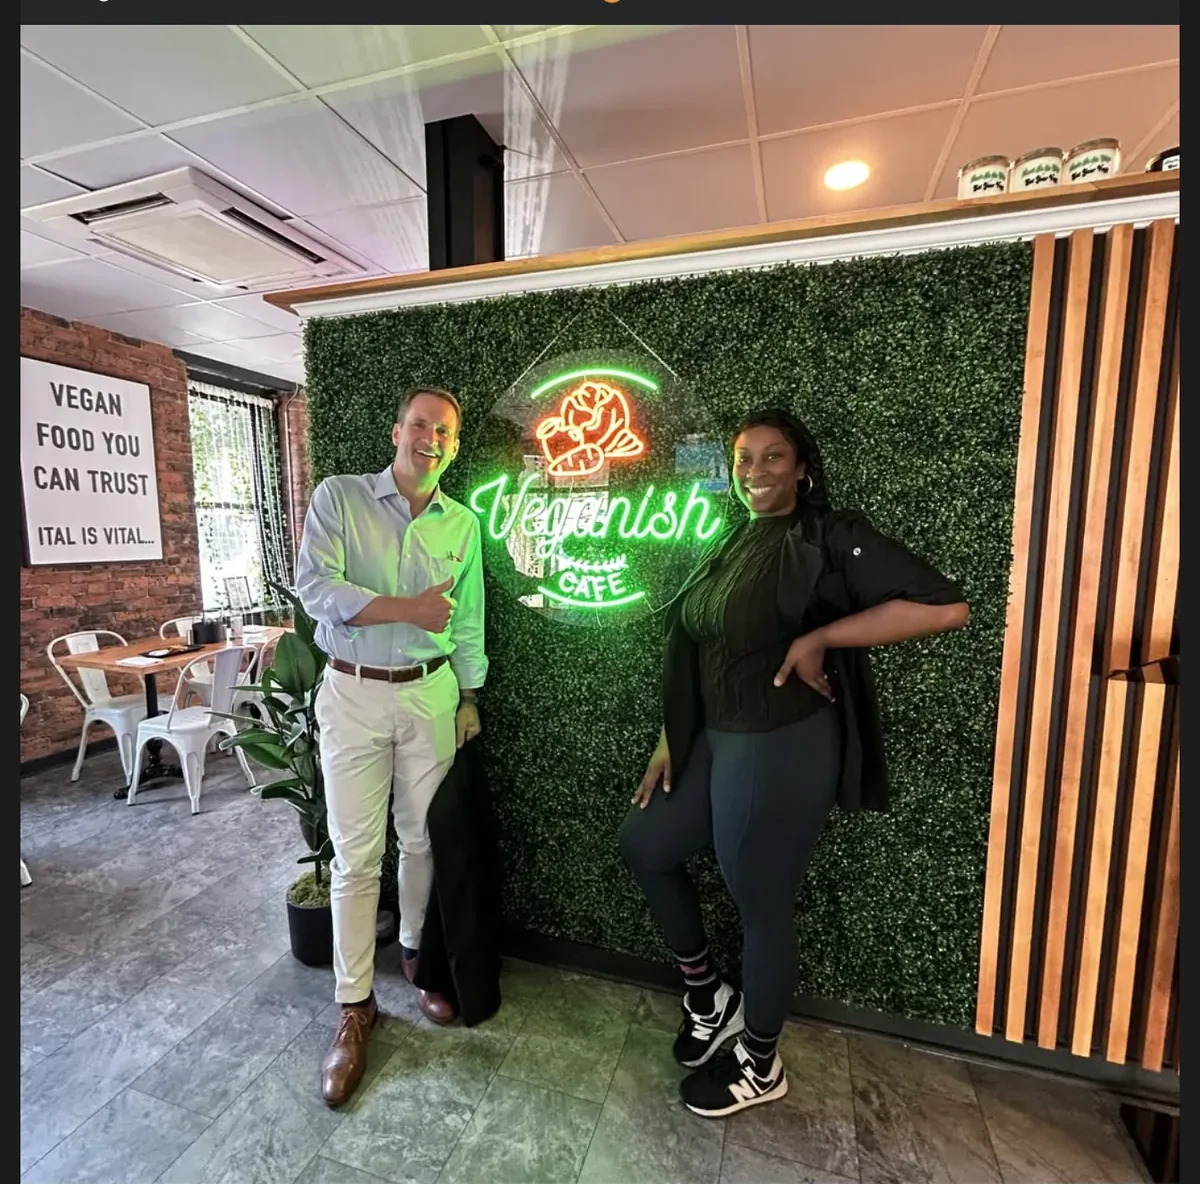
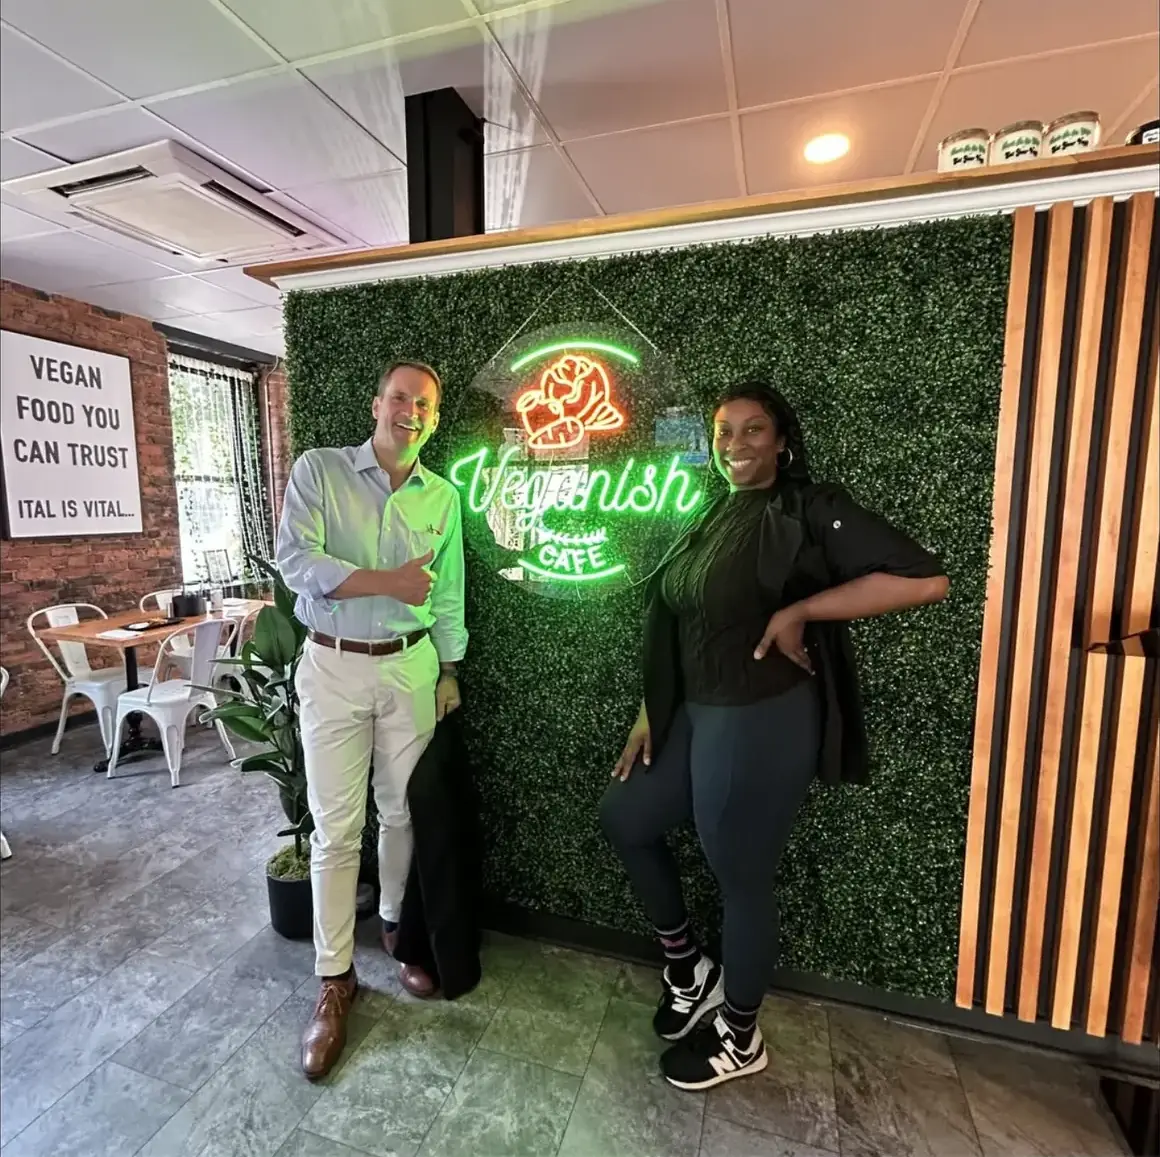
Strip screenshot chrome, add Instagram photos, fix nav and CTA contrast
Images
- food-3/4/5 and owners were full browser screenshots of Facebook, including a
  personal bookmarks bar, published on the live site. Cropped to the photo.
  owners also lost the video player's mute badge; its lightbox buttons sit top
  left, so they come off the side rather than the top, which was eating the
  subjects' headroom.
- congressman-himes lost a residual strip of UI and its letterbox.
- food-1/food-2 converted to WebP. og-image.jpg stays JPEG: social scrapers
  don't reliably render WebP and that image exists only for link previews.
- 8 photos from the cafe's own Instagram, via the public embed endpoint, which
  serves the uploaded original rather than the 640px grid thumbnail - several
  were 3-4K. Skipped the 720px reel covers with burnt-in text.

Pipeline
- images.mjs takes repeated --manifest and a per-manifest src root, because
  photos.js is rewritten wholesale and every source has to be on one run.
- Optional `aspect` re-frames a photo for the grid; the one reel cover arrives
  9:16 and needs 3:4.

Hero
- Two slides still pointed at the pre-WebP .jpg paths, so Vite couldn't
  fingerprint them and they rendered black. Slides are background-position:
  center, so the portrait owners frame also lost its subject - swapped for a
  sharp landscape shot and noted the constraint.

Nav
- The nav needs 1080px for one line but collapsed at the 1024 layout
  breakpoint, leaving 1025-1100px showing a full nav that didn't fit: the
[…]

diff --git a/index.html b/index.html
@@ -135,10 +135,12 @@
     <main id="main-content">
     <section id="home" class="hero" aria-label="Welcome">
       <div class="hero-slides" id="heroSlides" aria-hidden="true">
-        <div class="hero-slide active" style="background-image:url('assets/images/food-1.jpg')"></div>
+        <!-- Slides are background-position:center, so portrait crops lose their subject.
+             Keep these square or landscape. -->
+        <div class="hero-slide active" style="background-image:url('assets/images/food-1.webp')"></div>
         <div class="hero-slide" style="background-image:url('assets/images/governor-visit.webp')"></div>
-        <div class="hero-slide" style="background-image:url('assets/images/owners.webp')"></div>
-        <div class="hero-slide" style="background-image:url('assets/images/food-2.jpg')"></div>
+        <div class="hero-slide" style="background-image:url('assets/images/catering/festival-catering-setup.webp')"></div>
+        <div class="hero-slide" style="background-image:url('assets/images/food-2.webp')"></div>
       </div>
       <div class="hero-overlay"></div>
       <div class="hero-content">
@@ -153,8 +155,8 @@
           soul food reimagined, 100% plant-based.
         </p>
         <div class="hero-actions">
-          <a href="#menu" class="btn btn-primary">Explore the Menu</a>
-          <a href="#order" class="btn btn-outline">Order Now</a>
+          <a href="#menu" class="btn btn-outline">Explore the Menu</a>
+          <a href="#order" class="btn btn-accent">Order Now</a>
         </div>
         <p class="hero-badge">
           <span class="badge-icon" aria-hidden="true">🏆</span>
@@ -205,7 +207,7 @@
               </figcaption>
             </figure>
             <figure class="about-img-frame about-img-frame--secondary">
-              <img src="assets/images/congressman-himes.webp" alt="Congressman Jim Himes with Chef Hannah at Veganish Cafe" class="about-img" width="1200" height="1184" loading="lazy" decoding="async" />
+              <img src="assets/images/congressman-himes.webp" alt="Congressman Jim Himes with Chef Hannah at Veganish Cafe" class="about-img" width="1160" height="1157" loading="lazy" decoding="async" />
               <figcaption class="about-img-badge">
                 <span>Community</span>
                 <strong>Congressman Jim Himes</strong>
@@ -437,7 +439,7 @@
                  Where to find the link: Clover Dashboard → Account & Setup → Online Ordering,
                  then Online Ordering Providers → Clover → "More Options" (URL + QR code).
                  Keep this FIRST and PRIMARY — it's commission-free, unlike Grubhub/Uber Eats.
-            <a href="CLOVER_ORDERING_URL" target="_blank" rel="noopener noreferrer" class="btn btn-primary btn-lg">Order Pickup — Powered by Clover</a>
+            <a href="CLOVER_ORDERING_URL" target="_blank" rel="noopener noreferrer" class="btn btn-accent btn-lg">Order Pickup — Powered by Clover</a>
             -->
             <a href="tel:+12032758924" class="btn btn-primary btn-lg">
               <span aria-hidden="true">📞</span> Call (203) 275-8924

diff --git a/src/data/photos.js b/src/data/photos.js
@@ -198,6 +198,54 @@ export const gallery = [
     "caption": "Kale & Avocado Bowl",
     "width": 900,
     "height": 1200
+  },
+  {
+    "src": "assets/images/gallery/oyster-mushroom-salad.webp",
+    "slug": "oyster-mushroom-salad",
+    "alt": "Bowl of fried oyster mushrooms over kale and tomato with avocado and blue cheese on the side",
+    "caption": "Fried Oyster Mushroom Salad",
+    "width": 1200,
+    "height": 1200
+  },
+  {
+    "src": "assets/images/gallery/smash-burger-closeup.webp",
+    "slug": "smash-burger-closeup",
+    "alt": "Close-up of a double smash burger with melted cheese and sauce beside crinkle-cut fries",
+    "caption": "Double Smash Burger",
+    "width": 1200,
+    "height": 1200
+  },
+  {
+    "src": "assets/images/gallery/buffalo-cauliflower-wings.webp",
+    "slug": "buffalo-cauliflower-wings",
+    "alt": "Buffalo cauliflower wings in bright red sauce topped with diced cucumber",
+    "caption": "Buffalo Cauliflower Wings",
+    "width": 900,
+    "height": 1200
+  },
+  {
+    "src": "assets/images/gallery/vegan-tacos.webp",
+    "slug": "vegan-tacos",
+    "alt": "Two trays of vegan tacos with crispy fillings, lettuce and avocado on printed deli paper",
+    "caption": "Taco Tuesday",
+    "width": 1080,
+    "height": 1080
+  },
+  {
+    "src": "assets/images/gallery/sweet-chili-cauliflower-platter.webp",
+    "slug": "sweet-chili-cauliflower-platter",
+    "alt": "Plate of sweet chili cauliflower with spring rolls and chickpeas on a patio table",
+    "caption": "Sweet Chili Cauliflower",
+    "width": 1080,
+    "height": 1080
+  },
+  {
+    "src": "assets/images/gallery/soul-food-tray.webp",
+    "slug": "soul-food-tray",
+    "alt": "Takeout tray of rice and peas, cabbage, candied yams, mac and cheese and barbecue protein",
+    "caption": "Vegan Soul Food Tray",
+    "width": 900,
+    "height": 1200
   }
 ];
 
@@ -215,6 +263,14 @@ export const brand = [
     "slug": "chickpea-salad",
     "alt": "Chickpea salad plated in the dining room beneath the neon sign",
     "caption": "Chickpea Salad",
+    "width": 900,
+    "height": 1200
+  },
+  {
+    "src": "assets/images/brand/storefront-burger-neon.webp",
+    "slug": "storefront-burger-neon",
+    "alt": "Smash burger and seasoned fries on a plate in front of the Veganish storefront window and neon sign",
+    "caption": "Smash Burger at the Window",
     "width": 900,
     "height": 1200
   }
@@ -307,6 +363,14 @@ export const catering = [
     "alt": "Full catering pan of baked vegan macaroni and cheese",
     "caption": "Mac & Cheese",
     "width": 900,
+    "height": 1200
+  },
+  {
+    "src": "assets/images/catering/festival-catering-setup.webp",
+    "slug": "festival-catering-setup",
+    "alt": "Veganish staff in branded shirts serving from chafing trays under a tent at an outdoor festival",
+    "caption": "Catering on Location",
+    "width": 1200,
     "height": 1200
   }
 ];

diff --git a/src/styles/responsive.css b/src/styles/responsive.css
@@ -1,9 +1,6 @@
 /* ══════════════════════════════════════════
    RESPONSIVE
 ══════════════════════════════════════════ */
-/* The nav carries nine items since Catering and Meal Prep were added; four of
-   them wrapped at 813px, so the hamburger takes over here rather than at 768px.
-   Mirrored by BREAKPOINTS.nav in lib/breakpoints.js. */
 @media (max-width: 1024px) {
   .about-grid   { grid-template-columns: 1fr; gap: 48px; }
   .contact-grid { grid-template-columns: 1fr; gap: 48px; }
@@ -12,7 +9,14 @@
   .highlights-grid { grid-template-columns: 1fr 1fr; }
   .review-card  { flex: 0 0 calc(50% - 12px); }
   .event-card   { padding: 40px; gap: 40px; }
+}
 
+/* The nav needs 1080px to hold one line: 151px logo + 761px of links + 8px gaps +
+   80px padding. Collapsing at the 1024 layout breakpoint left 1025-1080px with a
+   full nav that didn't fit, so the wordmark and four labels each broke in two.
+   The hamburger takes over above the layout breakpoint for that reason.
+   Mirrored by BREAKPOINTS.nav in lib/breakpoints.js. */
+@media (max-width: 1100px) {
   /* With the links collapsed there's nothing to balance the logo against, so the
      lockup centres and the hamburger pins to the right edge. */
   .navbar { padding: 16px 24px; justify-content: center; }
@@ -23,8 +27,6 @@
     top: 50%;
     transform: translateY(-50%);
   }
-  /* Keep the wordmark on one line - "Vegan-" / "ish" was breaking in two. */
-  .nav-logo { white-space: nowrap; }
 
   .nav-toggle { display: flex; }
 

diff --git a/src/data/gallery.js b/src/data/gallery.js
@@ -2,48 +2,48 @@
 
 export const legacyGallery = [
   {
-    "src": "assets/images/food-1.jpg",
+    "src": "assets/images/food-1.webp",
     "alt": "Jalapeño smash burger with fries",
     "caption": "Jalapeño Smash Burger",
-    "width": 1440,
-    "height": 1440,
+    "width": 1200,
+    "height": 1200,
     "size": "tall"
   },
   {
-    "src": "assets/images/food-2.jpg",
+    "src": "assets/images/food-2.webp",
     "alt": "Classic plant-based smash burger",
     "caption": "Classic Smash Burger",
-    "width": 960,
-    "height": 1280
+    "width": 900,
+    "height": 1200
   },
   {
     "src": "assets/images/food-3.webp",
     "alt": "Ranch cauliflower bites",
     "caption": "Ranch Cauliflower Bites",
-    "width": 1200,
-    "height": 1292
+    "width": 949,
+    "height": 1152
   },
   {
     "src": "assets/images/food-4.webp",
     "alt": "BBQ cauliflower wings",
     "caption": "BBQ Cauliflower Wings",
-    "width": 1200,
-    "height": 1292,
+    "width": 966,
+    "height": 1152,
     "size": "wide"
   },
   {
     "src": "assets/images/food-5.webp",
     "alt": "Plant-based BBQ skewers",
     "caption": "BBQ Skewers",
-    "width": 1200,
-    "height": 1292
+    "width": 805,
+    "height": 1152
   },
   {
     "src": "assets/images/owners.webp",
     "alt": "Nate and Hannah Campbell at Veganish Cafe",
     "caption": "Nate & Hannah Campbell",
-    "width": 1400,
-    "height": 1507
+    "width": 1119,
+    "height": 1200
   },
   {
     "src": "assets/images/food-7.webp",

diff --git a/src/styles/components/nav.css b/src/styles/components/nav.css
@@ -27,6 +27,8 @@
   font-size: 1.6rem;
   color: var(--cream);
   z-index: 1001;
+  /* Unconditional: "Vegan-" / "ish" split in two whenever the nav got tight. */
+  white-space: nowrap;
 }
 .nav-logo em { color: var(--orange); font-style: normal; }
 .nav-logo svg { transition: transform 0.3s cubic-bezier(0.34, 1.56, 0.64, 1); }
@@ -75,11 +77,12 @@
 /* The focus ring already marks keyboard position, so don't double up with the
    underline's entrance - just show it immediately. */
 .nav-link:focus-visible::after { transform: scaleX(1); transition: none; }
+/* Matches .btn-accent — the ordering CTA is one colour wherever it appears. */
 .nav-cta {
   display: block;
   padding: 10px 22px;
-  background: var(--green-deep);
-  color: var(--white);
+  background: var(--orange);
+  color: var(--black);
   border-radius: 50px;
   font-size: 0.88rem;
   font-weight: 600;
@@ -87,11 +90,11 @@
   margin-left: 8px;
 }
 .nav-cta:hover {
-  background: var(--green-deep-hi);
+  background: var(--orange-hi);
   transform: translateY(-2px);
-  box-shadow: 0 8px 22px rgba(46,125,50,0.5);
+  box-shadow: 0 8px 22px rgba(255,107,53,0.5);
 }
-.nav-cta:active { transform: translateY(0); box-shadow: 0 2px 8px rgba(46,125,50,0.4); }
+.nav-cta:active { transform: translateY(0); box-shadow: 0 2px 8px rgba(255,107,53,0.4); }
 
 .nav-toggle {
   display: none;

diff --git a/src/data/highlights.js b/src/data/highlights.js
@@ -22,8 +22,8 @@ export const highlights = [
   {
     "img": "assets/images/congressman-himes.webp",
     "alt": "Congressman Jim Himes with Chef Hannah",
-    "width": 1200,
-    "height": 1184,
+    "width": 1160,
+    "height": 1157,
     "tag": "Congressional Visit",
     "title": "Congressman Jim Himes",
     "body": "Congressman Jim Himes stopped in for lunch and couldn't leave without telling Chef Hannah how flavorful the food was.",
@@ -32,10 +32,11 @@ export const highlights = [
   {
     "img": "assets/images/owners.webp",
     "alt": "Nate and Hannah Campbell, owners of Veganish Cafe",
-    "width": 1400,
-    "height": 1507,
+    "width": 1119,
+    "height": 1200,
     "tag": "Meet the Owners",
     "title": "Nate & Hannah Campbell",
-    "body": "Chef Hannah and Nate Campbell — the husband and wife team behind Veganish Cafe. Built on love, seasoned with culture, and rooted in Bridgeport."
+    "body": "Chef Hannah and Nate Campbell — the husband and wife team behind Veganish Cafe. Built on love, seasoned with culture, and rooted in Bridgeport.",
+    "imgClass": "img-pos-top"
   }
 ];

diff --git a/src/styles/base/tokens.css b/src/styles/base/tokens.css
@@ -30,6 +30,7 @@
      4.7:1, so the label stays readable mid-hover. */
   --green-deep-hi: #328436;
   --orange:   #FF6B35;
+  --orange-hi:#FF7F4F;          /* .btn-accent hover — 7.9:1 on --black */
   --gold:     #D4AF37;
   --cream:    #F5F0E8;
   --white:    #ffffff;
@@ -163,6 +164,20 @@ address { font-style: normal; }
   border-color: var(--green-deep-hi);
   transform: translateY(-2px);
   box-shadow: 0 8px 24px rgba(76,175,80,0.35);
+}
+/* Ordering CTA. --orange carries only 2.84:1 against white, so it takes dark text
+   (6.98:1) — lightening the text or darkening the fill to suit white would cost the
+   logo colour. Reserved for "order" actions so there is one accent on the page. */
+.btn-accent {
+  background: var(--orange);
+  color: var(--black);
+  border-color: var(--orange);
+}
+.btn-accent:hover {
+  background: var(--orange-hi);
+  border-color: var(--orange-hi);
+  transform: translateY(-2px);
+  box-shadow: 0 8px 24px rgba(255,107,53,0.4);
 }
 .btn-outline {
   background: transparent;

diff --git a/src/styles/sections/hero.css b/src/styles/sections/hero.css
@@ -89,9 +89,12 @@
   font-weight: 600;
   letter-spacing: 0.15em;
   text-transform: uppercase;
-  color: var(--orange);
-  background: rgba(255,107,53,0.12);
-  border: 1px solid rgba(255,107,53,0.25);
+  /* A 12% tint let the slide behind set the contrast — orange on orange ran 1.4:1 over
+     a mid-tone photo. An opaque plate holds 7:1+ against any slide, and cream keeps
+     --orange reserved for the ordering CTAs so this doesn't read as a button. */
+  color: var(--cream);
+  background: rgba(10,10,10,0.72);
+  border: 1px solid rgba(255,107,53,0.55);
   padding: 6px 14px;
   border-radius: 50px;
   margin-bottom: 28px;

diff --git a/src/lib/breakpoints.js b/src/lib/breakpoints.js
@@ -6,9 +6,9 @@ export const BREAKPOINTS = {
   mobile: 480,
   tablet: 768,
   desktop: 1024,
-  // The nav collapses to the hamburger earlier than the rest: nine items stop
-  // fitting on one line around 1050px.
-  nav: 1024,
+  // The nav collapses to the hamburger earlier than the rest: logo + nine items
+  // + CTA measure 1080px on one line, so this sits above `desktop`, not on it.
+  nav: 1100,
 };
 
 // Lazy so importing this doesn't require a `window`.

diff --git a/src/sections/menu.js b/src/sections/menu.js
@@ -43,7 +43,7 @@ export function renderMenu() {
       </div>
       <div class="menu-note">
         <p>* Menu items and prices may vary. Please ask about daily specials and seasonal offerings.</p>
-        <a href="#order" class="btn btn-primary">Place an Order</a>
+        <a href="#order" class="btn btn-accent">Place an Order</a>
       </div>
     </div>`;
 }
